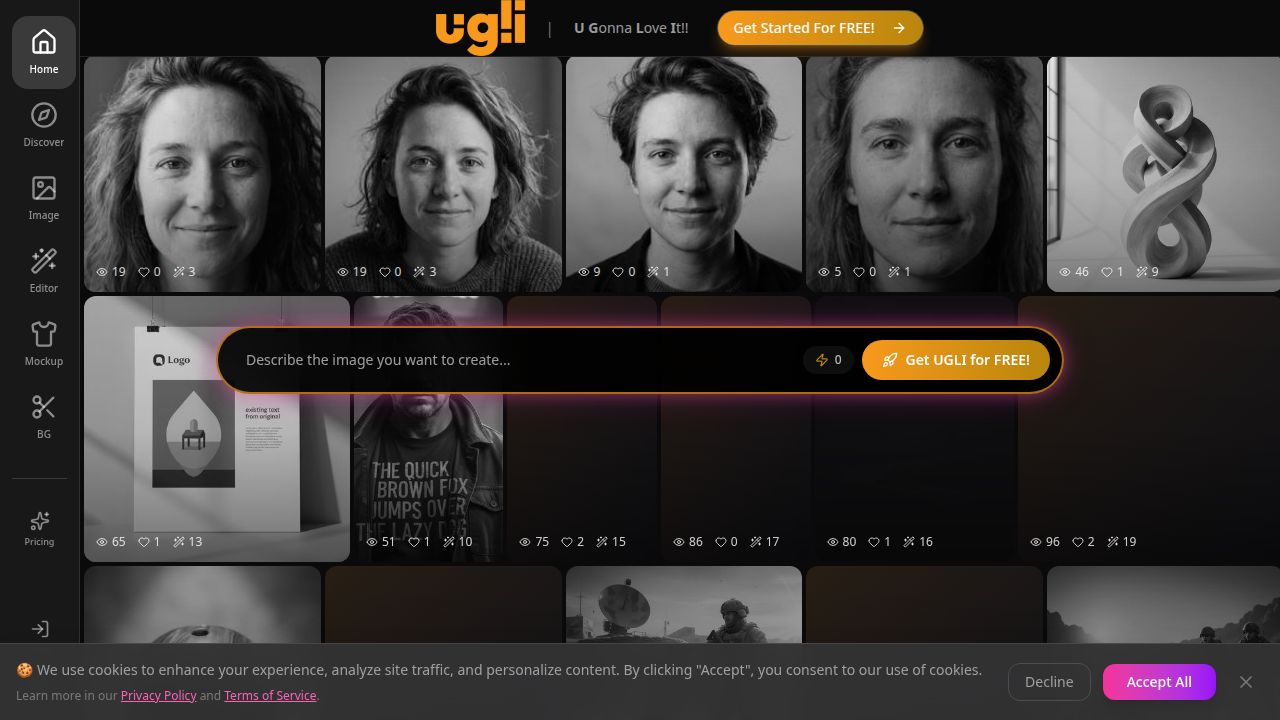
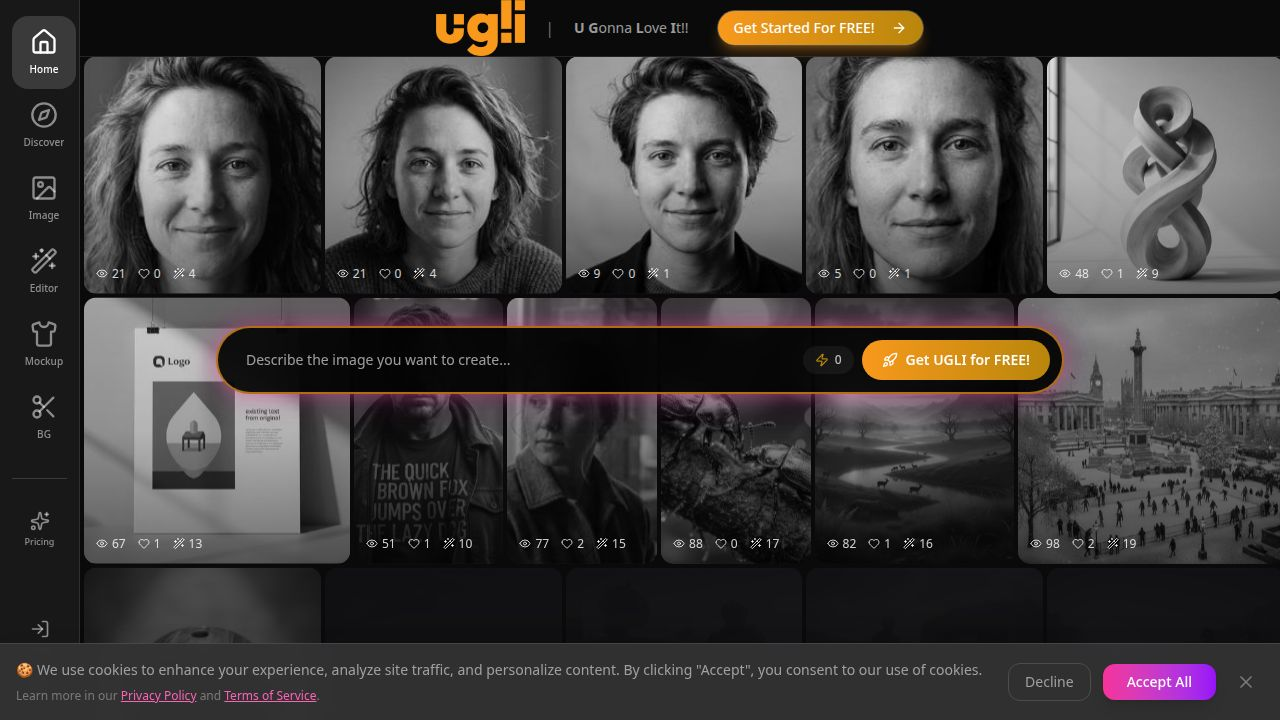
Add follow button functionality to discover page thumbnails
Integrates a follow/unfollow button on discover page thumbnail images, updates cache invalidation strategy to 'gallery:images:v2', and refactors server-side logic to compute user-specific data like `isFollowing` post-cache retrieval.

Replit-Commit-Author: Agent
Replit-Commit-Session-Id: cb87d437-e6e0-47cf-8310-ed8354ab44ef
Replit-Commit-Checkpoint-Type: intermediate_checkpoint
Replit-Commit-Event-Id: 75982982-e73d-4478-acd6-d3099c687743
Replit-Commit-Screenshot-Url: https://storage.googleapis.com/screenshot-production-us-central1/ec05a3ac-7bc7-4cb8-b62c-d0bb2c465a3d/cb87d437-e6e0-47cf-8310-ed8354ab44ef/ESF5p17
Replit-Helium-Checkpoint-Created: true

diff --git a/client/src/pages/discover.tsx b/client/src/pages/discover.tsx
@@ -12,14 +12,18 @@ import {
   Search,
   X,
   Share2,
-  Link2
+  Link2,
+  UserPlus,
+  UserCheck
 } from "lucide-react";
 import { Input } from "@/components/ui/input";
 import { Popover, PopoverContent, PopoverTrigger } from "@/components/ui/popover";
 import { motion, AnimatePresence } from "framer-motion";
 import { cn } from "@/lib/utils";
 import { Sidebar } from "@/components/sidebar";
-import { galleryApi } from "@/lib/api";
+import { galleryApi, socialApi } from "@/lib/api";
+import { useAuth } from "@/hooks/use-auth";
+import { useLoginPopup } from "@/components/login-popup";
 import { useToast } from "@/hooks/use-toast";
 
 function formatCount(num: number): string {
@@ -51,6 +55,7 @@ interface InspirationItem {
   title: string;
   image: string;
   creator: string;
+  creatorId?: string | null;
   verified: boolean;
   views: number;
   likes: number;
@@ -60,6 +65,7 @@ interface InspirationItem {
   aspectRatio: "1:1" | "9:16" | "16:9" | "4:5" | "3:4";
   prompt: string;
   isLiked?: boolean;
+  isFollowing?: boolean;
   isGalleryImage?: boolean;
   createdAt?: string;
 }
@@ -76,8 +82,12 @@ const LazyMasonryCard = memo(function LazyMasonryCard({ item, index, onLike, onU
   const [remixed, setRemixed] = useState(false);
   const [viewTracked, setViewTracked] = useState(false);
   const [linkCopied, setLinkCopied] = useState(false);
+  const [isFollowing, setIsFollowing] = useState(item.isFollowing || false);
+  const [followLoading, setFollowLoading] = useState(false);
   const cardRef = useRef<HTMLDivElement>(null);
   const { toast } = useToast();
+  const { isAuthenticated } = useAuth();
+  const { openLoginPopup } = useLoginPopup();
 
   const shareUrl = typeof window !== 'undefined' ? `${window.location.origin}/share/${item.id}` : '';
 
@@ -114,6 +124,33 @@ const LazyMasonryCard = memo(function LazyMasonryCard({ item, index, onLike, onU
     const text = `Check out this AI-generated image: "${item.prompt.slice(0, 80)}${item.prompt.length > 80 ? '...' : ''}"`;
     const url = `https://wa.me/?text=${encodeURIComponent(text + ' ' + shareUrl)}`;
     window.open(url, '_blank');
+  };
+
+  const handleFollow = async (e: React.MouseEvent) => {
+    e.stopPropagation();
+    if (!item.creatorId) return;
+    
+    if (!isAuthenticated) {
+      openLoginPopup();
+      return;
+    }
+    
+    setFollowLoading(true);
+    try {
+      if (isFollowing) {
+        const result = await socialApi.unfollowUser(item.creatorId);
+        setIsFollowing(result.isFollowing);
+        toast({ title: "Unfollowed", description: `You unfollowed @${item.creator}` });
+      } else {
+        const result = await socialApi.followUser(item.creatorId);
+        setIsFollowing(result.isFollowing);
+        toast({ title: "Following!", description: `You are now following @${item.creator}` });
+      }
+    } catch {
+      toast({ title: "Error", description: "Failed to update follow status", variant: "destructive" });
+    } finally {
+      setFollowLoading(false);
+    }
   };
 
   useEffect(() => {
@@ -240,10 +277,40 @@ const LazyMasonryCard = memo(function LazyMasonryCard({ item, index, onLike, onU
           
           <div className="absolute bottom-0 left-0 right-0 p-4">
             <h3 className="text-base font-semibold text-white truncate drop-shadow-lg">{item.title}</h3>
-            <div className="flex items-center gap-2 mt-1.5">
-              <div className="w-5 h-5 rounded-full bg-gradient-to-tr from-[#f8991c] to-[#B8860B]" />
-              <span className="text-xs text-white/80">@{item.creator}</span>
-              {item.verified && <BadgeCheck className="h-3 w-3 text-[#B8860B]" />}
+            <div className="flex items-center justify-between mt-1.5">
+              <div className="flex items-center gap-2">
+                <div className="w-5 h-5 rounded-full bg-gradient-to-tr from-[#f8991c] to-[#B8860B]" />
+                <span className="text-xs text-white/80">@{item.creator}</span>
+                {item.verified && <BadgeCheck className="h-3 w-3 text-[#B8860B]" />}
+              </div>
+              {item.isGalleryImage && item.creatorId && (
+                <button
+                  onClick={handleFollow}
+                  disabled={followLoading}
+                  className={cn(
+                    "flex items-center gap-1 px-2 py-1 rounded-full text-[10px] font-medium transition-all",
+                    isFollowing 
+                      ? "bg-white/20 text-white hover:bg-red-500/80" 
+                      : "bg-[#f8991c] text-white hover:bg-[#e88a17]"
+                  )}
+                  data-testid={`button-follow-${item.id}`}
+                  title={isFollowing ? "Unfollow" : "Follow"}
+                >
+                  {followLoading ? (
+                    <Loader2 className="h-3 w-3 animate-spin" />
+                  ) : isFollowing ? (
+                    <>
+                      <UserCheck className="h-3 w-3" />
+                      <span className="hidden sm:inline">Following</span>
+                    </>
+                  ) : (
+                    <>
+                      <UserPlus className="h-3 w-3" />
+                      <span className="hidden sm:inline">Follow</span>
+                    </>
+                  )}
+                </button>
+              )}
             </div>
             
             <AnimatePresence>
@@ -2010,7 +2077,8 @@ export default function Discover() {
           id: img.id,
           title: img.prompt?.slice(0, 40) + (img.prompt?.length > 40 ? '...' : '') || 'Community Creation',
           image: img.thumbnailUrl || img.imageUrl,
-          creator: img.creatorName || 'anonymous',
+          creator: img.creatorName || img.creator || 'anonymous',
+          creatorId: img.creatorId || null,
           verified: false,
           views: img.viewCount || 0,
           likes: img.likeCount || 0,
@@ -2020,6 +2088,7 @@ export default function Discover() {
           aspectRatio: (img.aspectRatio as "1:1" | "9:16" | "16:9" | "4:5" | "3:4") || '1:1',
           prompt: img.prompt || '',
           isLiked: img.isLiked || false,
+          isFollowing: img.isFollowing || false,
           isGalleryImage: true,
           createdAt: img.createdAt
         }));

diff --git a/server/routes/gallery.ts b/server/routes/gallery.ts
@@ -13,25 +13,48 @@ export function registerGalleryRoutes(app: Express, middleware: Middleware) {
   app.get("/api/gallery", async (req: Request, res: Response) => {
     try {
       // Cache gallery images for 5 minutes to reduce DB load
+      // Note: cached data does NOT include user-specific fields (isLiked, isFollowing)
+      // Those are computed per-request below
       const images = await getFromCache(
-        'gallery:images',
+        'gallery:images:v2',
         CACHE_TTL.GALLERY_IMAGES,
         () => storage.getGalleryImages()
       );
       const userId = (req as AuthenticatedRequest).user?.claims?.sub;
 
       let likedImageIds: string[] = [];
+      let followingUserIds: string[] = [];
       if (userId) {
-        likedImageIds = await storage.getUserLikedImages(userId);
+        // Fetch user-specific data per-request (not cached)
+        const [likedIds, followingData] = await Promise.all([
+          storage.getUserLikedImages(userId),
+          storage.getFollowing(userId, 1000, 0)
+        ]);
+        likedImageIds = likedIds;
+        followingUserIds = followingData.users.map(u => u.id);
       }
 
-      const imagesWithLikeStatus = images.map(img => ({
-        ...img,
+      // Create new response objects with user-specific status - do not mutate cached data
+      const imagesWithStatus = images.map(img => ({
+        id: img.id,
+        sourceImageId: img.sourceImageId,
+        title: img.title,
+        creator: img.creator,
+        verified: img.verified,
+        category: img.category,
+        aspectRatio: img.aspectRatio,
+        prompt: img.prompt,
+        likeCount: img.likeCount,
+        viewCount: img.viewCount,
+        useCount: img.useCount,
+        createdAt: img.createdAt,
+        creatorId: img.creatorId,
         thumbnailUrl: `/api/gallery/${img.id}/thumbnail`,
-        isLiked: likedImageIds.includes(img.id)
+        isLiked: likedImageIds.includes(img.id),
+        isFollowing: img.creatorId ? followingUserIds.includes(img.creatorId) : false
       }));
 
-      res.json({ images: imagesWithLikeStatus });
+      res.json({ images: imagesWithStatus });
     } catch (error) {
       logger.error("Gallery error", error, { source: "gallery" });
       res.status(500).json({ message: "Server error" });
@@ -44,7 +67,7 @@ export function registerGalleryRoutes(app: Express, middleware: Middleware) {
       const { imageId } = req.params;
 
       const result = await storage.likeGalleryImage(imageId, userId);
-      invalidateCache('gallery:images');
+      invalidateCache('gallery:images:v2');
       res.json(result);
     } catch (error) {
       logger.error("Like error", error, { source: "gallery" });

diff --git a/server/storage.ts b/server/storage.ts
@@ -145,7 +145,7 @@ export interface IStorage {
   removeItemFromBoard(itemId: string): Promise<void>;
   verifyBoardItemOwnership(userId: string, itemId: string): Promise<boolean>;
 
-  getGalleryImages(limit?: number): Promise<Omit<GalleryImage, 'imageUrl'>[]>;
+  getGalleryImages(limit?: number): Promise<(Omit<GalleryImage, 'imageUrl'> & { creatorId?: string | null })[]>;
   getGalleryImageById(imageId: string): Promise<GalleryImage | undefined>;
   getGalleryImageBySourceId(sourceImageId: string): Promise<GalleryImage | undefined>;
   createGalleryImage(data: { title: string; imageUrl: string; creator: string; category?: string; aspectRatio?: string; prompt?: string; sourceImageId?: string }): Promise<GalleryImage>;
@@ -1132,8 +1132,8 @@ export class DatabaseStorage implements IStorage {
     await db.delete(moodBoardItems).where(eq(moodBoardItems.id, itemId));
   }
 
-  async getGalleryImages(limit: number = 200): Promise<Omit<GalleryImage, 'imageUrl'>[]> {
-    return db.select({
+  async getGalleryImages(limit: number = 200): Promise<(Omit<GalleryImage, 'imageUrl'> & { creatorId?: string | null })[]> {
+    const results = await db.select({
       id: galleryImages.id,
       sourceImageId: galleryImages.sourceImageId,
       title: galleryImages.title,
@@ -1146,9 +1146,12 @@ export class DatabaseStorage implements IStorage {
       viewCount: galleryImages.viewCount,
       useCount: galleryImages.useCount,
       createdAt: galleryImages.createdAt,
+      creatorId: generatedImages.userId,
     }).from(galleryImages)
+      .leftJoin(generatedImages, eq(galleryImages.sourceImageId, generatedImages.id))
       .orderBy(desc(galleryImages.createdAt))
       .limit(limit);
+    return results;
   }
 
   async getGalleryImageById(imageId: string): Promise<GalleryImage | undefined> {

diff --git a/server/routes/generation.ts b/server/routes/generation.ts
@@ -155,7 +155,7 @@ export async function registerGenerationRoutes(app: Express, middleware: Middlew
           aspectRatio: "1:1",
           prompt,
         }),
-        invalidateCache('gallery:images')
+        invalidateCache('gallery:images:v2')
       ]);
 
       return res.json({ imageData: result.imageData, mimeType: result.mimeType });
@@ -385,7 +385,7 @@ export async function registerGenerationRoutes(app: Express, middleware: Middlew
                       aspectRatio,
                       prompt,
                     }),
-                    invalidateCache('gallery:images')
+                    invalidateCache('gallery:images:v2')
                   ]);
                 } catch (galleryError) {
                   logger.error("Failed to add draft image to gallery", galleryError, { source: "generation" });
@@ -664,7 +664,7 @@ export async function registerGenerationRoutes(app: Express, middleware: Middlew
                       aspectRatio,
                       prompt,
                     }),
-                    invalidateCache('gallery:images')
+                    invalidateCache('gallery:images:v2')
                   ]);
                   logger.info(`[Premium Gen] Image ${index} added to public gallery`, { source: "generation" });
                 } catch (galleryError) {

diff --git a/server/routes/images.ts b/server/routes/images.ts
@@ -119,7 +119,7 @@ export function registerImageRoutes(app: Express, middleware: Middleware) {
       }
 
       // Invalidate gallery cache so new image appears immediately
-      await invalidateCache('gallery:images');
+      await invalidateCache('gallery:images:v2');
 
       res.json({ image });
     } catch (error) {
@@ -295,7 +295,7 @@ export function registerImageRoutes(app: Express, middleware: Middleware) {
         return res.status(404).json({ message: "Image not found" });
       }
       // Invalidate gallery cache to reflect visibility change
-      await invalidateCache('gallery:images');
+      await invalidateCache('gallery:images:v2');
       res.json({ image });
     } catch (error) {
       logger.error("Visibility toggle error", error, { source: "images" });
@@ -491,8 +491,9 @@ export function registerImageRoutes(app: Express, middleware: Middleware) {
 
   // Edit an image using AI - creates a new version
   app.post("/api/images/:id/edit", requireAuth, async (req: Request, res: Response) => {
+    // Define userId at handler scope for catch block access
+    const userId = getUserId(req as AuthenticatedRequest);
     try {
-      const userId = getUserId(req as AuthenticatedRequest);
       const { id } = req.params;
       const { editPrompt } = req.body;
 
